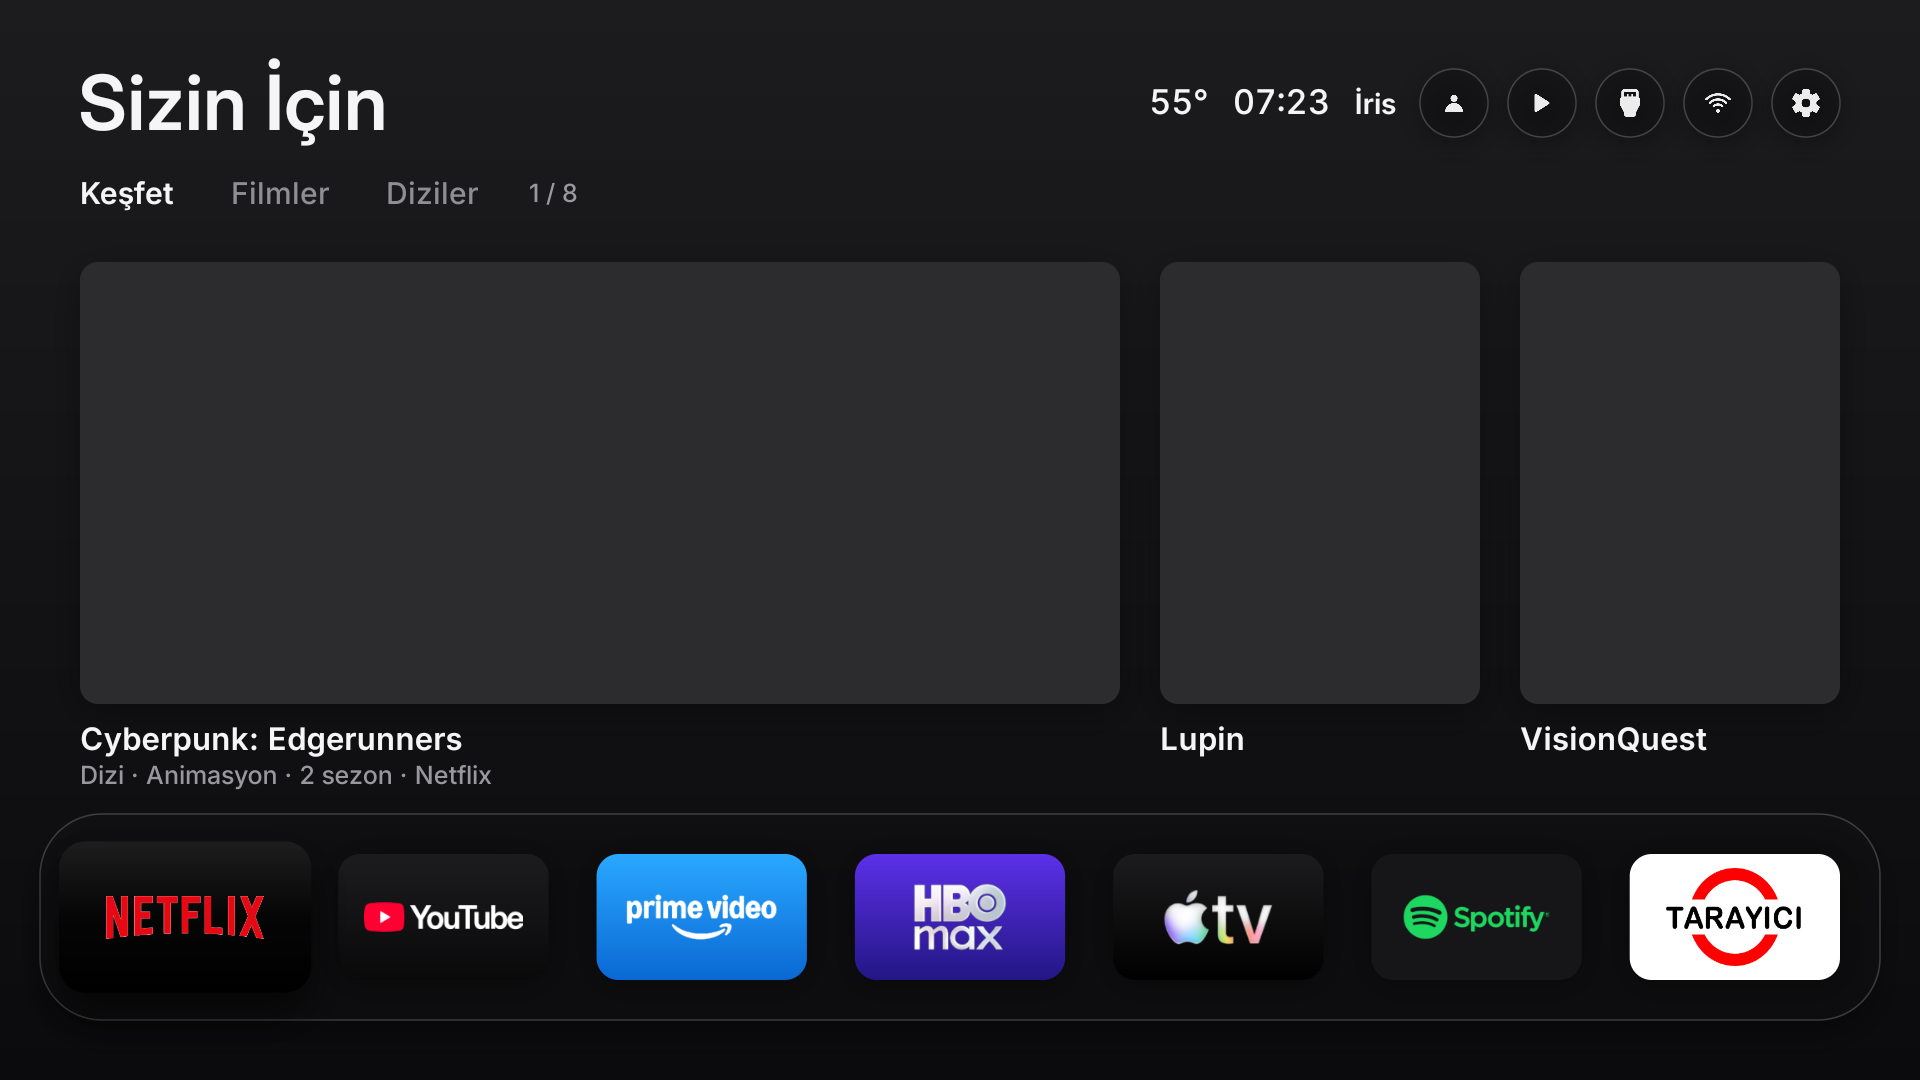
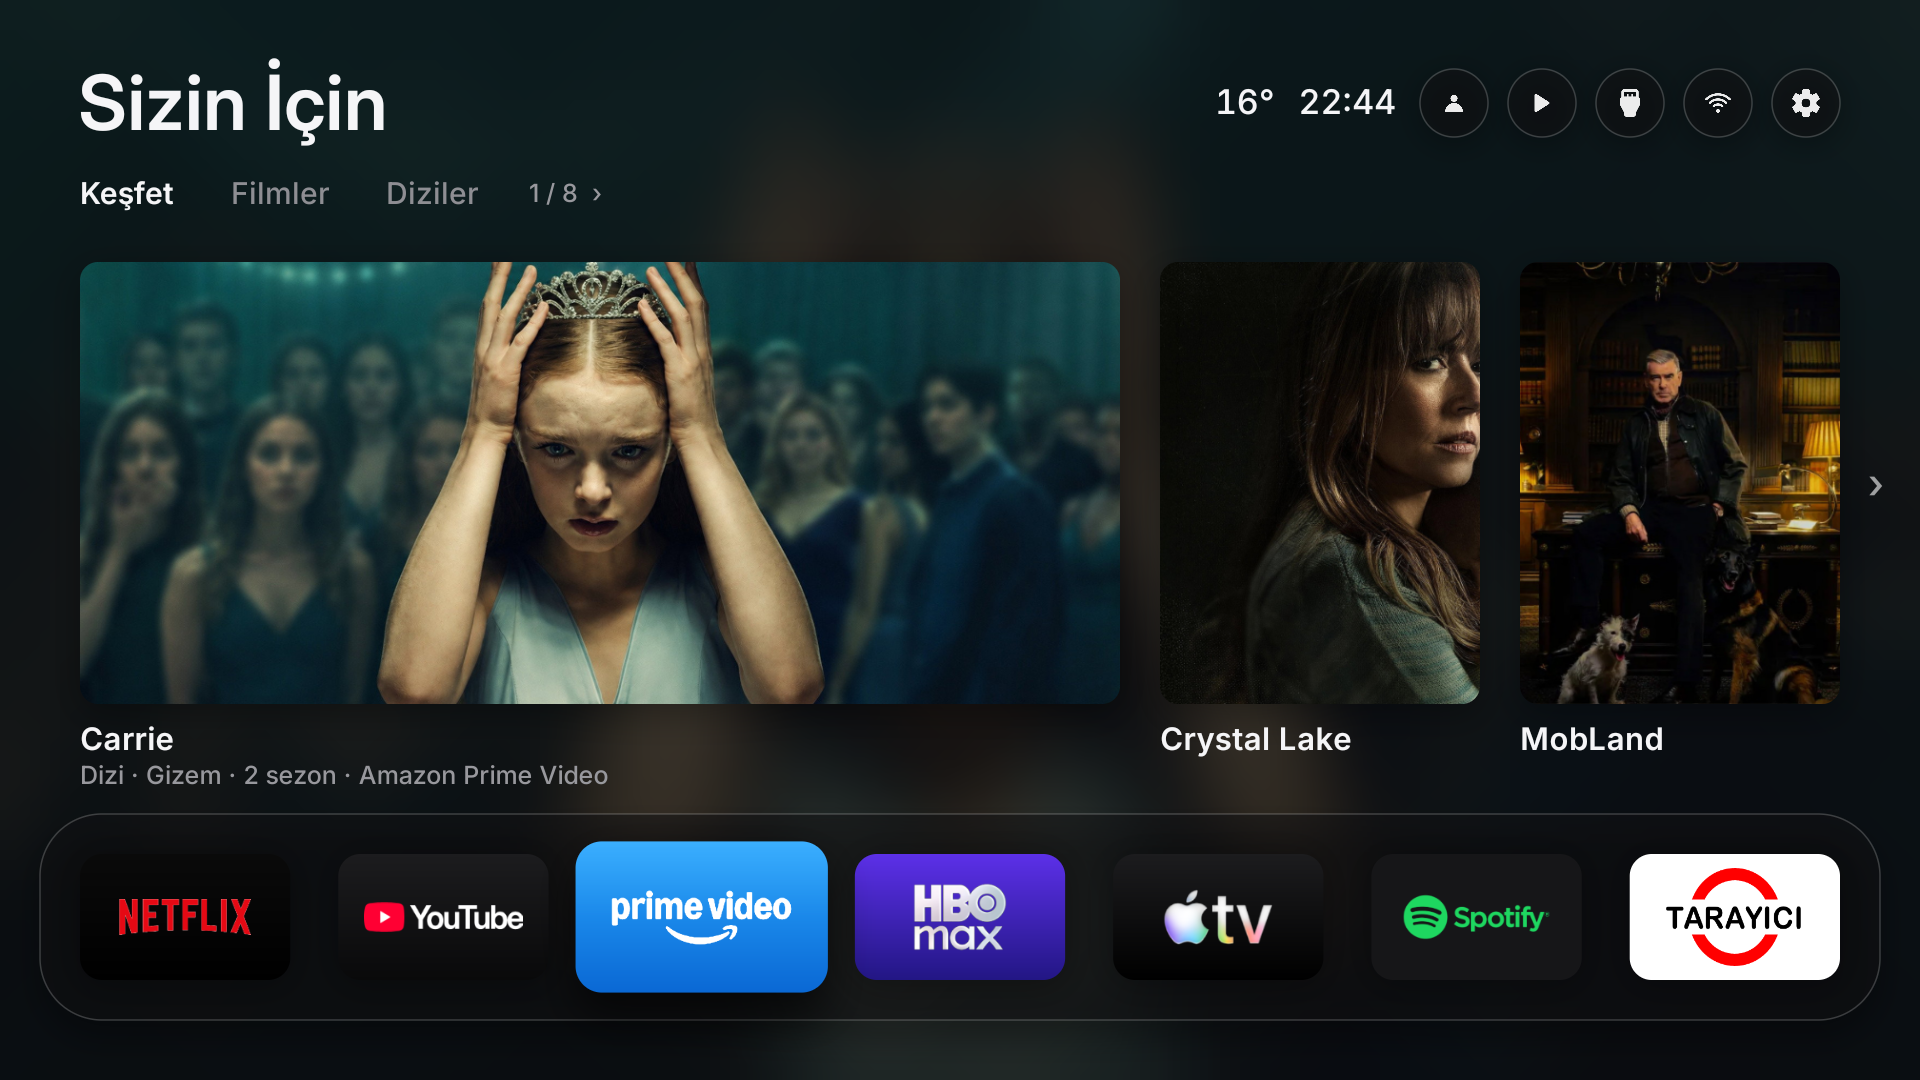
chore: remove personal name and update screenshot with latest UI

diff --git a/launcher-ui/app/src/io/cleanyourtv/ui/Prefs.java b/launcher-ui/app/src/io/cleanyourtv/ui/Prefs.java
@@ -106,7 +106,7 @@ final class Prefs {
                 }
             } catch (Exception ignored) {}
         }
-        return "iris.ulstrn@gmail.com";
+        return null;
     }
 
     static void setUserEmail(String email) { put("user_email", email); }
@@ -114,17 +114,7 @@ final class Prefs {
     static String userName() {
         String custom = sp().getString("user_name", null);
         if (custom != null && !custom.trim().isEmpty()) return custom.trim();
-        String email = userEmail();
-        if (email != null && email.contains("@")) {
-            String prefix = email.substring(0, email.indexOf('@')).trim();
-            int dot = prefix.indexOf('.');
-            String first = dot > 0 ? prefix.substring(0, dot) : prefix;
-            if (!first.isEmpty()) {
-                if ("iris".equalsIgnoreCase(first)) return "İris";
-                return Character.toUpperCase(first.charAt(0)) + first.substring(1);
-            }
-        }
-        return "İris";
+        return null;
     }
 
     static void setUserName(String name) { put("user_name", name); }

diff --git a/PROGRESS.md b/PROGRESS.md
@@ -4,7 +4,7 @@
 - `CleanYourTV-UI` (`io.cleanyourtv.ui`) default launcher olarak aktif ve kusursuz çalışıyor.
 - Öneri kartlarında sayfalama ve sağ/sol gezinme okları (`‹  2 / 8  ›` ve kenar okları) eklendi.
 - Çekmece açılırken ve gezinirken öneri kartları ve ekran bileşenleri senkronize şekilde kayar, metin çakışması ve ani kaybolma giderildi.
-- Profil butonu doğrudan Android TV'nin "Hesaplar ve oturum açma" (iris.ulstrn@gmail.com) ekranına yönlendiriyor.
+- Profil butonu doğrudan Android TV'nin "Hesaplar ve oturum açma" ekranına yönlendiriyor.
 - Ayarlardaki TMDB hesap alanı "TMDB Hesabı · Bağlı değil (İsteğe bağlı)" olarak Türkçeleştirildi; API'nin zaten 24 içeriği bağımsız çektiği kullanıcıya netleştirildi.
 - Sıcaklık Türkiye ve tüm Avrupa'da otomatik Santigrat (°C).
 
